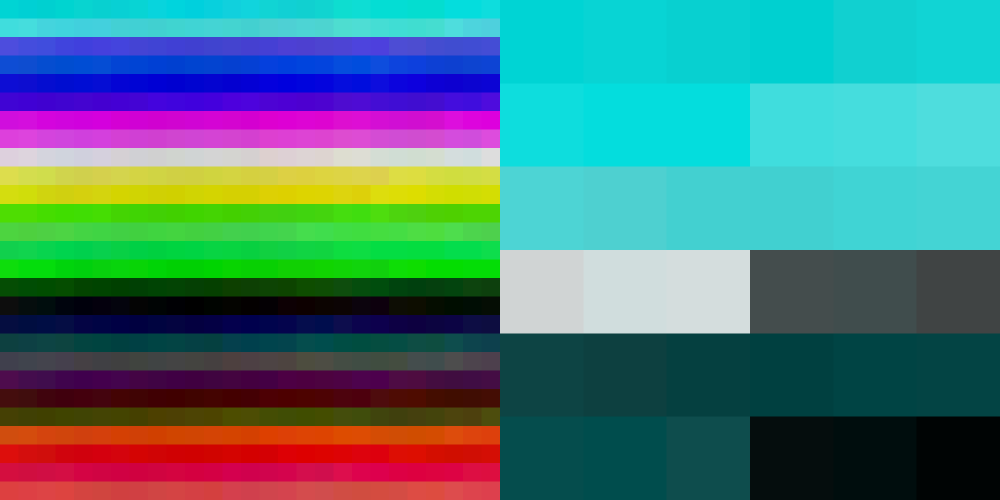
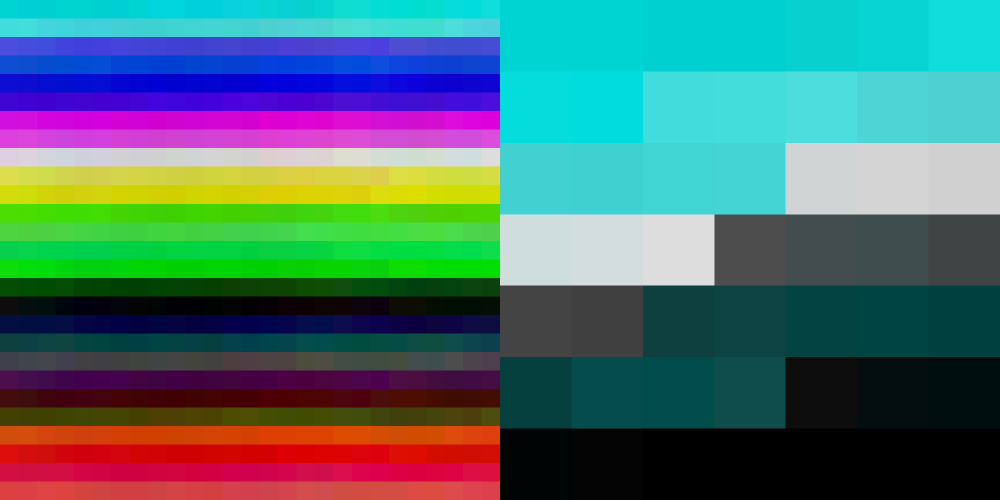
fix: Update color filtering logic and add background color to container

Changed region(s): [[0.496, 0.12, 1.0, 1.0]]

diff --git a/script.js b/script.js
@@ -78,7 +78,7 @@ function renderColors() {
 
   let colorsToDisplay;
   if (isFilteredGEqualsB) {
-    const filteredColors = sortedColors.filter((color) => color.r < color.g && color.g === color.b);
+    const filteredColors = sortedColors.filter((color) => color.r <= color.g && color.g === color.b);
     colorsToDisplay = nearestNeighborSort(filteredColors);
   } else {
     colorsToDisplay = sortedColors;

diff --git a/styles/style.css b/styles/style.css
@@ -1,4 +1,5 @@
 .container {
+  background-color: #000;
   display: grid;
   max-width: 100%;
   margin: 0 auto;
